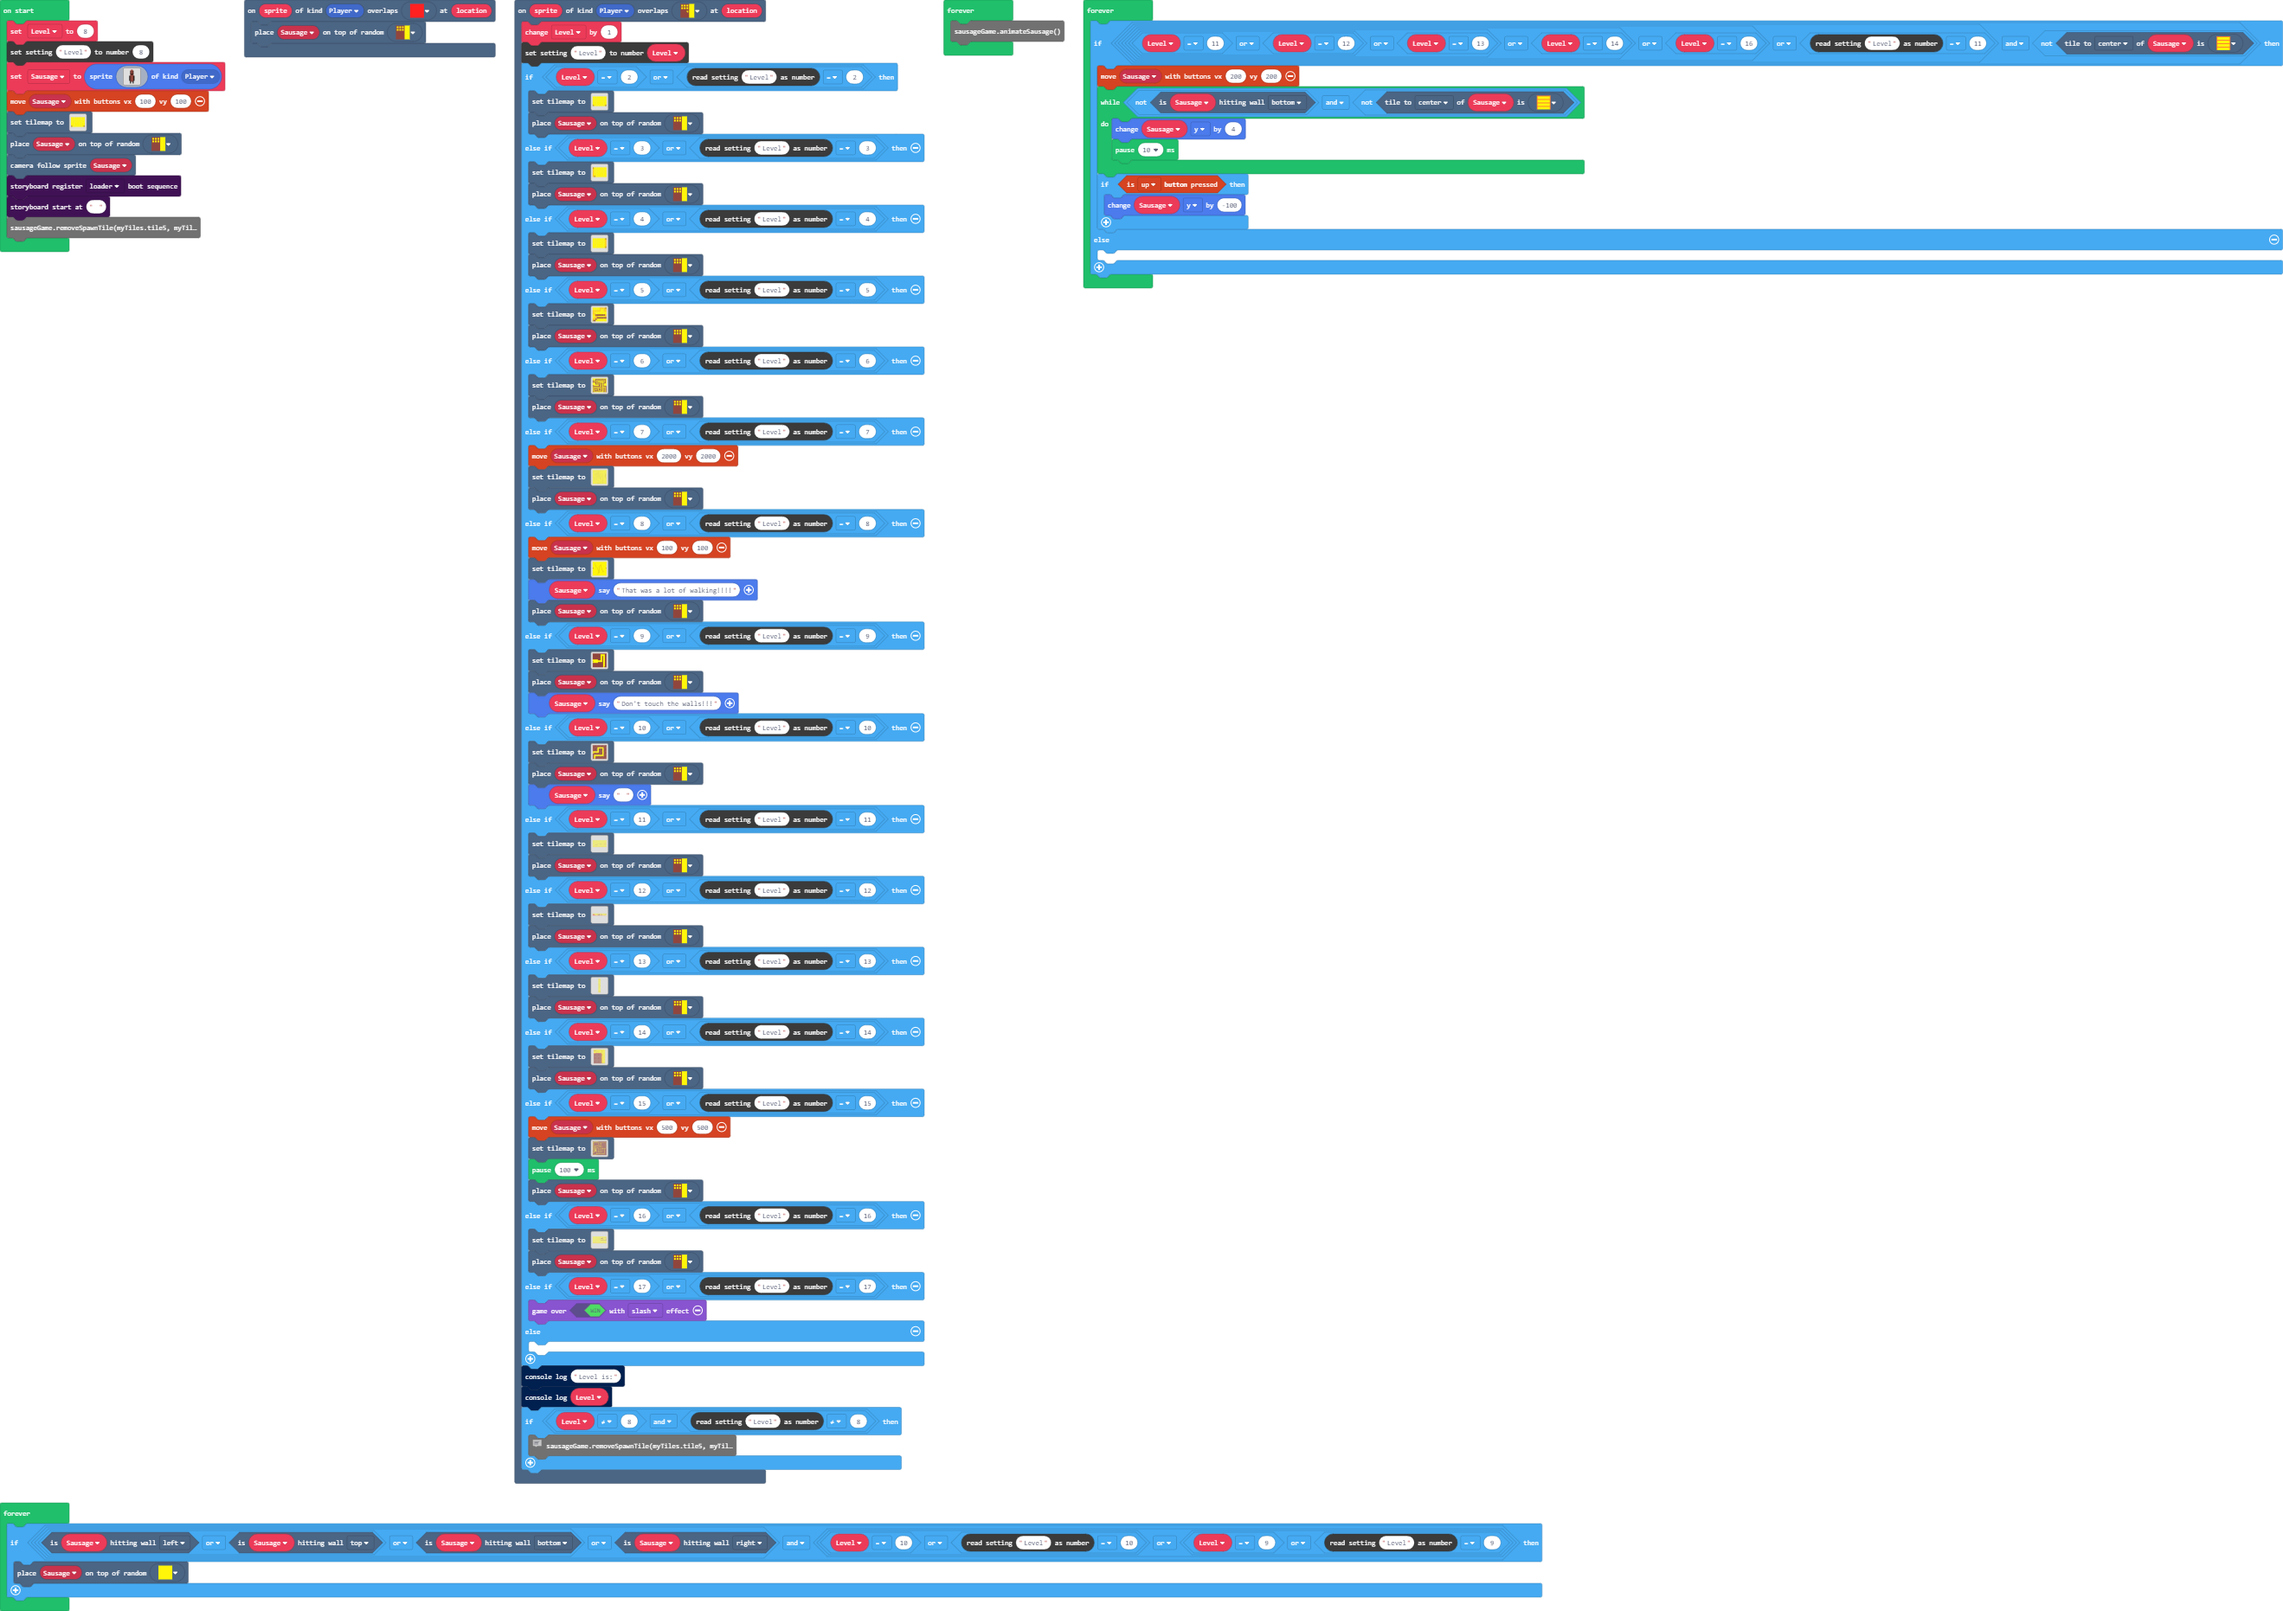
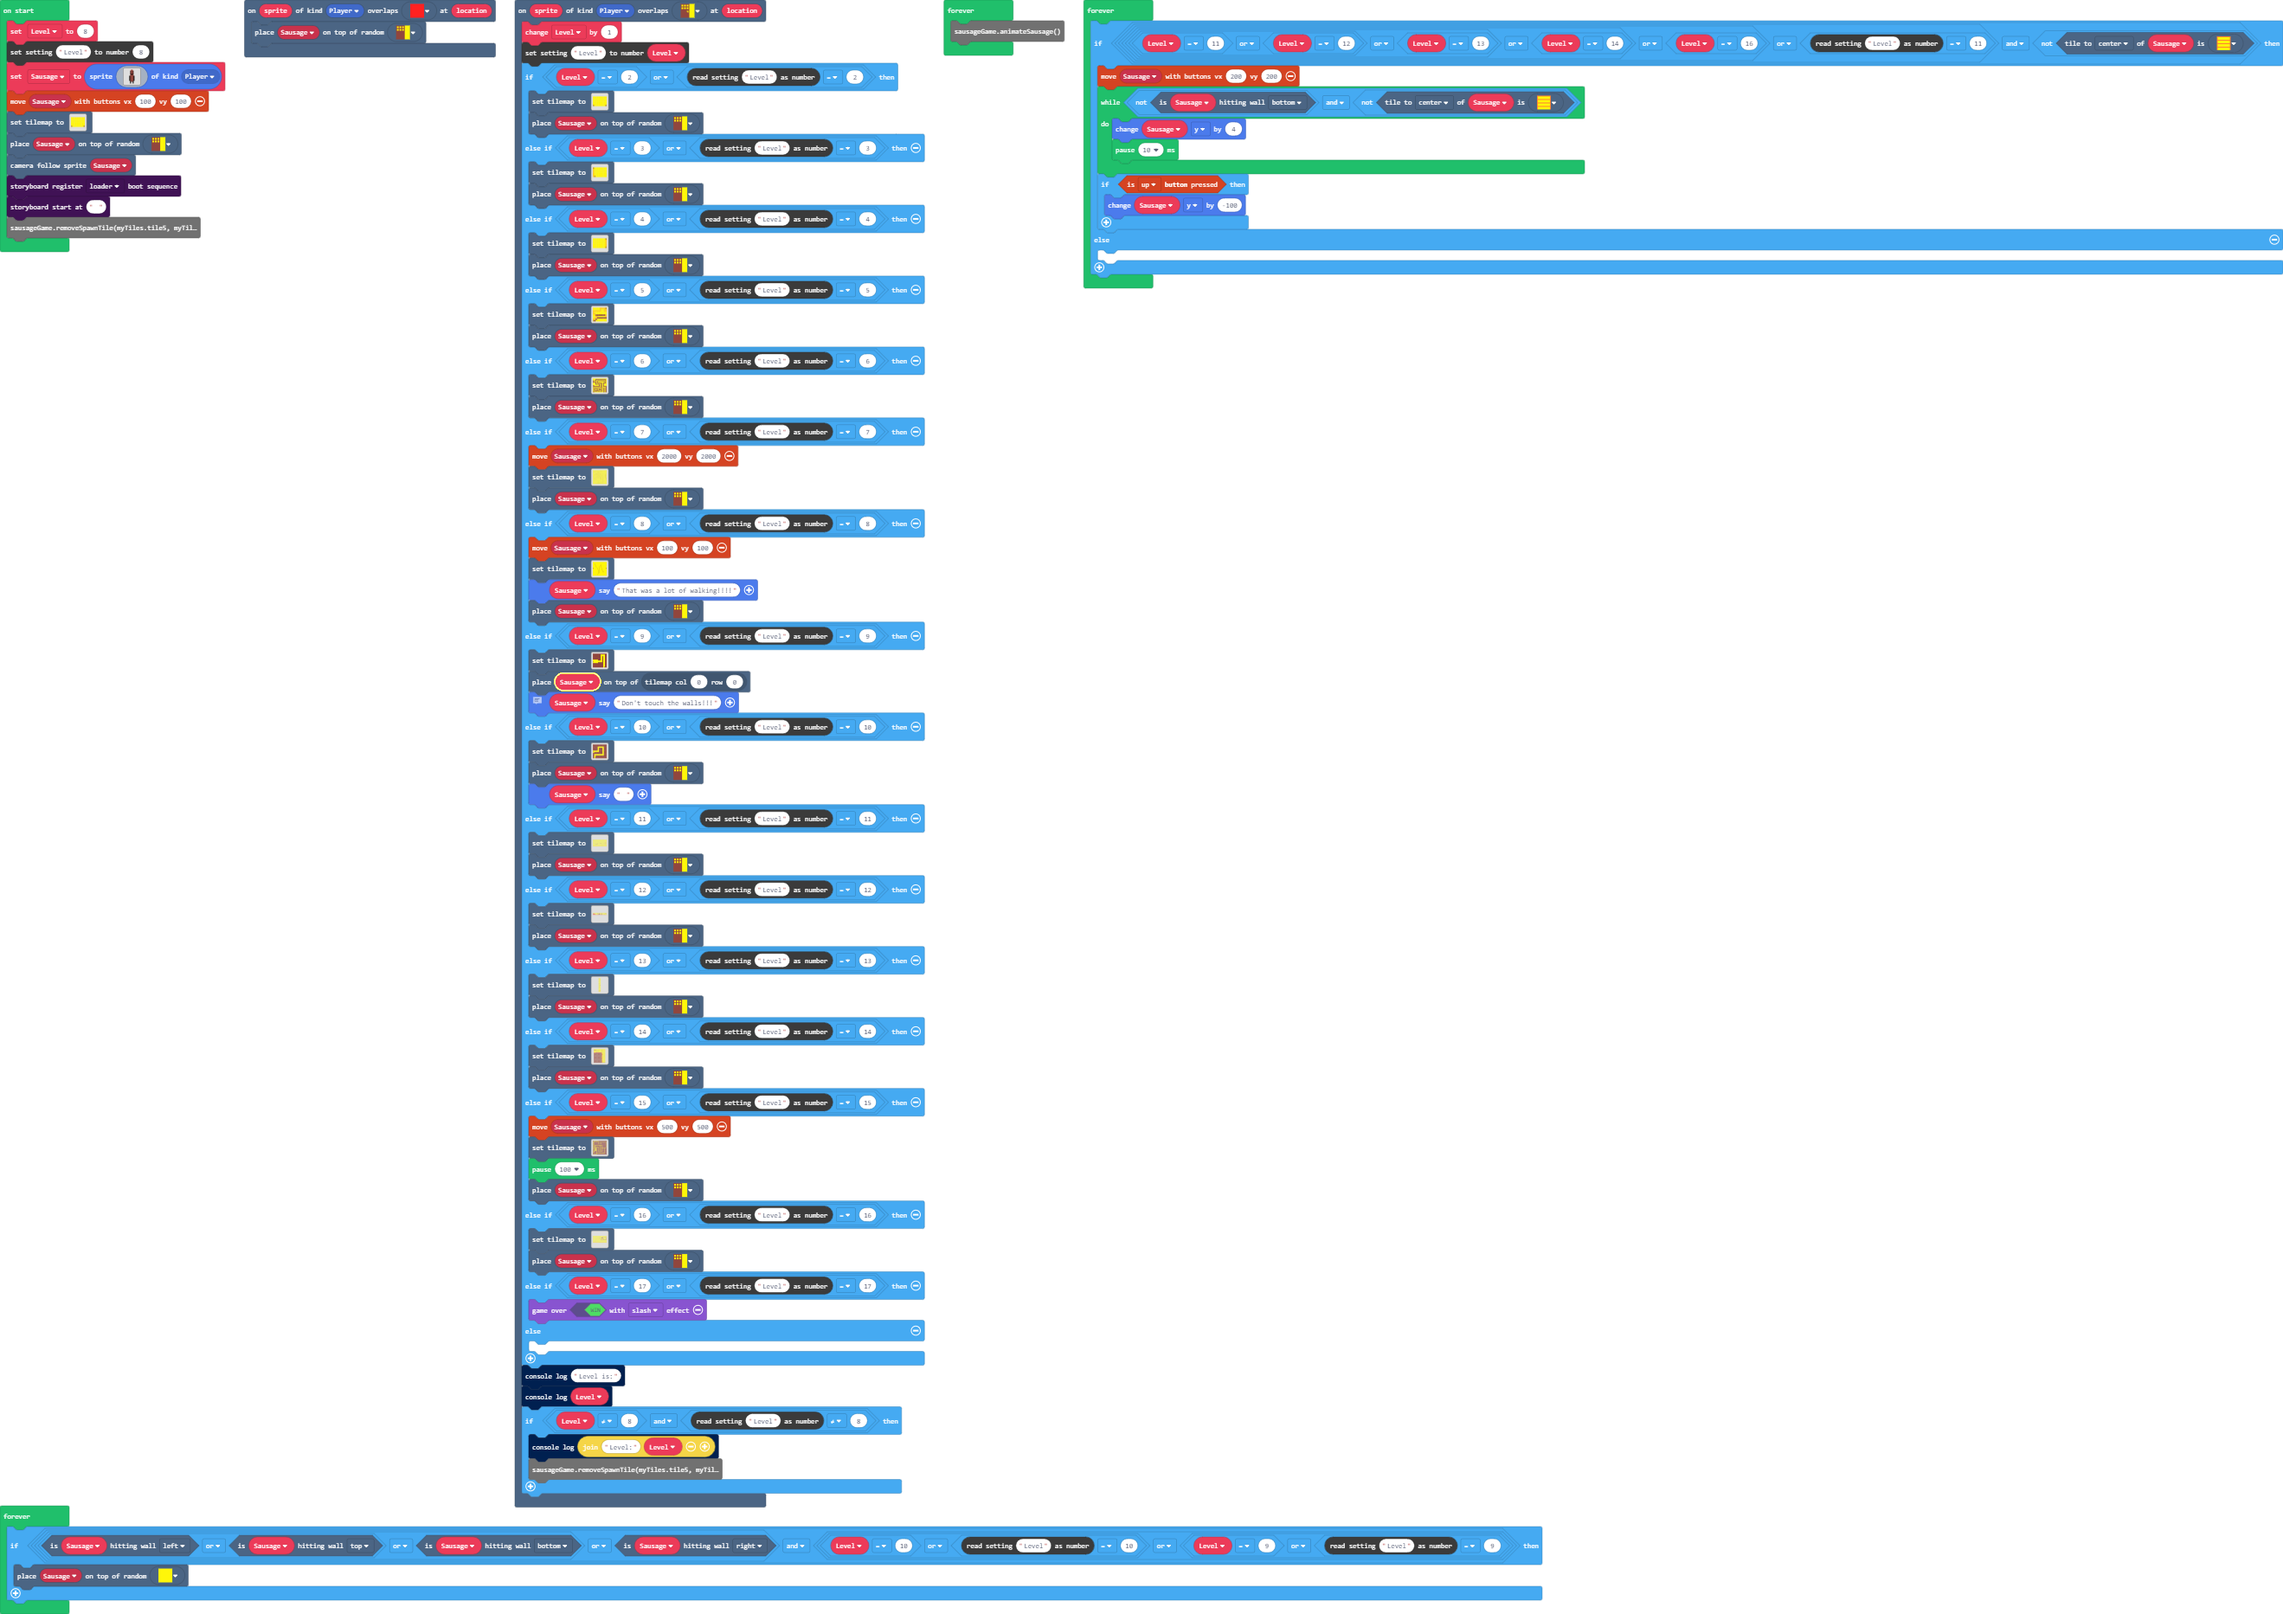
Update main.blocks, main.ts, sausageGame.ts

diff --git a/main.ts b/main.ts
@@ -460,7 +460,8 @@ scene.onOverlapTile(SpriteKind.Player, myTiles.tile2, function (sprite, location
             [myTiles.tile0,myTiles.tile1,myTiles.tile2,myTiles.tile3,myTiles.tile4,myTiles.tile5,myTiles.tile6,myTiles.tile7,myTiles.tile9,myTiles.tile10,myTiles.tile11,myTiles.tile12,myTiles.tile13],
             TileScale.Sixteen
         ))
-        tiles.placeOnRandomTile(Sausage, myTiles.tile5)
+        tiles.placeOnTile(Sausage, tiles.getTileLocation(0, 9))
+        // tiles.placeOnTile(Sausage, 0 0)
         Sausage.say("Don't touch the walls!!!")
     } else if (Level == 10 || blockSettings.readNumber("Level") == 10) {
         tiles.setTilemap(tiles.createTilemap(
@@ -879,17 +880,17 @@ scene.onOverlapTile(SpriteKind.Player, myTiles.tile2, function (sprite, location
     } else {
     	
     }
-    console.log("Level is:")
-    console.log(Level)
-    if (Level != 8 && blockSettings.readNumber("Level") != 8) {
-        console.log('Level:'+ Level)
+    // console.log("Level is:")
+    // console.log(Level)
+    // if (Level != 8 && blockSettings.readNumber("Level") != 8) {
+    //     console.log("Level:" + Level)
         sausageGame.removeSpawnTile(myTiles.tile5, myTiles.tile1)
-    }
+    // }
 })
 let Sausage: Sprite = null
 let Level = 0
-Level = 8
-blockSettings.writeNumber("Level", 8)
+Level = 7
+blockSettings.writeNumber("Level", 7)
 Sausage = sprites.create(img`
     . . e e . .
     . e e e e .
@@ -930,6 +931,7 @@ storyboard.start("")
 sausageGame.removeSpawnTile(myTiles.tile5, myTiles.tile1)
 forever(function () {
     sausageGame.animateSausage()
+ 
 })
 forever(function () {
     if ((Level == 11 || Level == 12 || Level == 13 || Level == 14 || Level == 16 || blockSettings.readNumber("Level") == 11) && !(Sausage.tileKindAt(TileDirection.Center, myTiles.tile4))) {
@@ -945,8 +947,13 @@ forever(function () {
     	
     }
 })
-forever(function () {
-    if ((Sausage.isHittingTile(CollisionDirection.Left) || Sausage.isHittingTile(CollisionDirection.Top) || Sausage.isHittingTile(CollisionDirection.Bottom) || Sausage.isHittingTile(CollisionDirection.Right)) && (Level == 10 || blockSettings.readNumber("Level") == 10 || (Level == 9 || blockSettings.readNumber("Level") == 9))) {
-        tiles.placeOnRandomTile(Sausage, myTiles.tile1)
-    }
+// forever(function () {
+//     if ((Sausage.isHittingTile(CollisionDirection.Left) || Sausage.isHittingTile(CollisionDirection.Top) || Sausage.isHittingTile(CollisionDirection.Bottom) || Sausage.isHittingTile(CollisionDirection.Right)) && (Level == 10 || blockSettings.readNumber("Level") == 10 || (Level == 9 || blockSettings.readNumber("Level") == 9))) {
+//         if (Level == 9 && blockSettings.readNumber("Level") == 9){
+//             tiles.placeOnTile(Sausage, tiles.getTileLocation(0, 9))
+//         }
+//     }
+// })
+game.onUpdate(function () {
+    sausageGame.restartLevelWhenHittingWall()
 })

diff --git a/sausageGame.ts b/sausageGame.ts
@@ -4,9 +4,11 @@ namespace sausageGame {
             tiles.setTileAt(value, emptyTile)
         }
     }
-    export function isHittingWall(){
+    export function restartLevelWhenHittingWall() {
         if ((Sausage.isHittingTile(CollisionDirection.Left) || Sausage.isHittingTile(CollisionDirection.Top) || Sausage.isHittingTile(CollisionDirection.Bottom) || Sausage.isHittingTile(CollisionDirection.Right)) && (Level == 10 || blockSettings.readNumber("Level") == 10 || (Level == 9 || blockSettings.readNumber("Level") == 9))) {
-            tiles.placeOnRandomTile(Sausage, myTiles.tile5)
+            if (Level == 9 && blockSettings.readNumber("Level") == 9 || Level == 10 && blockSettings.readNumber("Level") == 10) {
+                tiles.placeOnTile(Sausage, tiles.getTileLocation(0, 9))
+            }
         }
     }
     export function animateSausage() {
